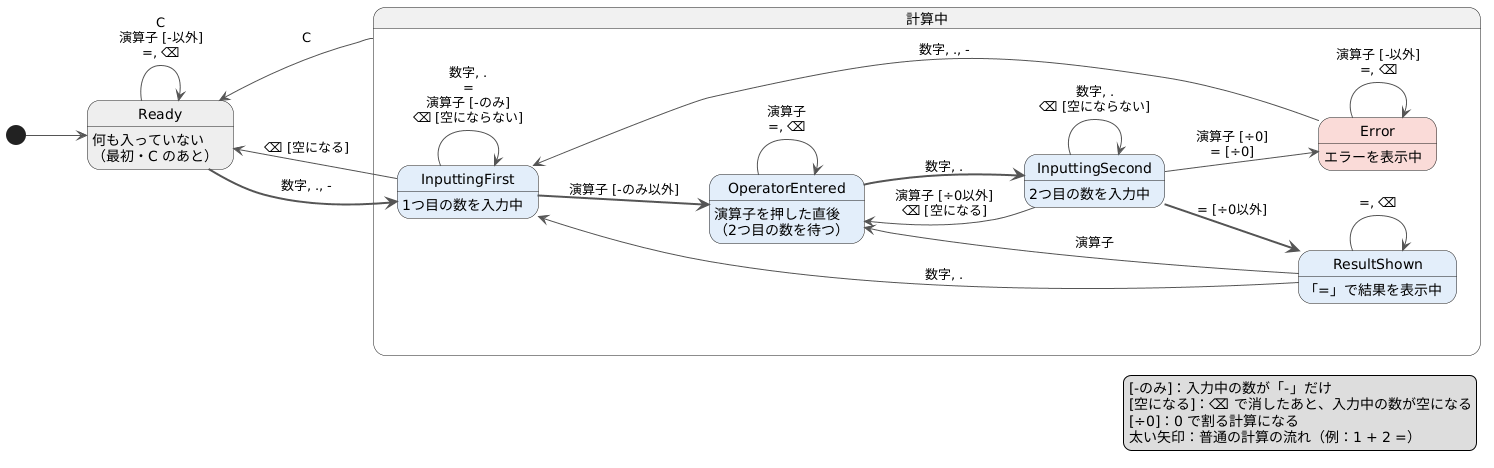
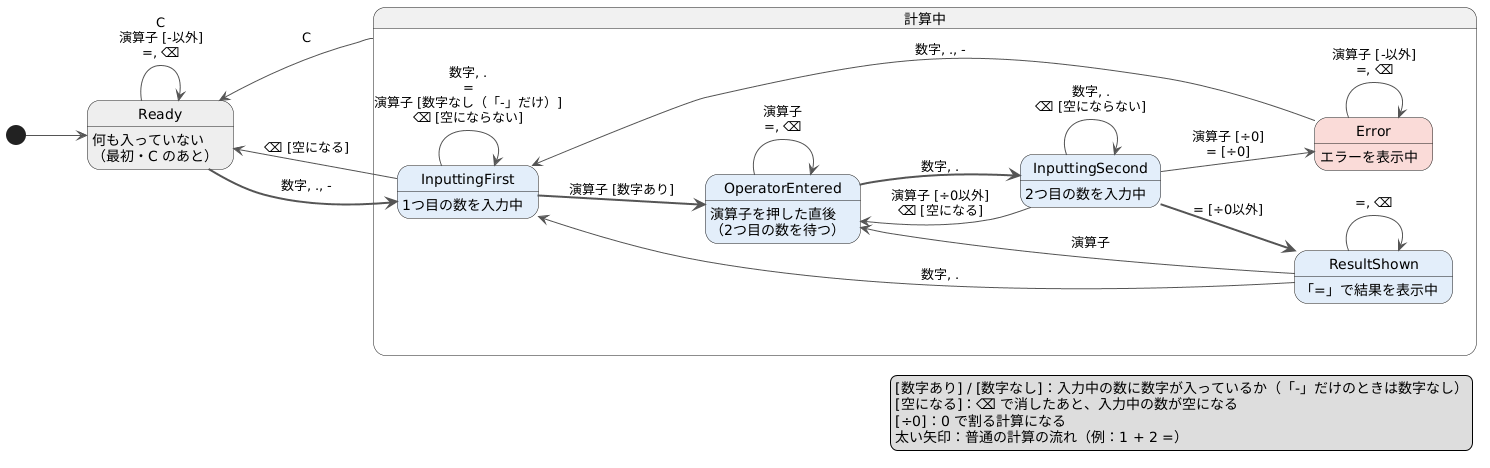
docs: 状態遷移図の条件名を分かりやすく修正
講師のレビューを受けて、InputtingFirst の演算子の条件を [-のみ] / [-のみ以外] から [数字なし（「-」だけ）] / [数字あり] に変更。押した演算子が「-」かどうかと、入力中の数が「-」だけかどうかが紛らわしかったため。凡例と画像も合わせて更新した。

diff --git a/docs/状態遷移図.md b/docs/状態遷移図.md
@@ -35,8 +35,8 @@ Ready <-- 計算中 : C
 Ready --> Ready : C\n演算子 [-以外]\n&#61;, ⌫
 Ready -[bold]-> InputtingFirst : 数字, ., -
 Ready <-- InputtingFirst : ⌫ [空になる]
-InputtingFirst --> InputtingFirst : 数字, .\n&#61;\n演算子 [-のみ]\n⌫ [空にならない]
-InputtingFirst -[bold]-> OperatorEntered : 演算子 [-のみ以外]
+InputtingFirst --> InputtingFirst : 数字, .\n&#61;\n演算子 [数字なし（「-」だけ）]\n⌫ [空にならない]
+InputtingFirst -[bold]-> OperatorEntered : 演算子 [数字あり]
 OperatorEntered --> OperatorEntered : 演算子\n&#61;, ⌫
 OperatorEntered -[bold]-> InputtingSecond : 数字, .
 InputtingSecond --> InputtingSecond : 数字, .\n⌫ [空にならない]
@@ -50,7 +50,7 @@ Error --> InputtingFirst : 数字, ., -
 Error --> Error : 演算子 [-以外]\n&#61;, ⌫
 
 legend right
-  [-のみ]：入力中の数が「-」だけ
+  [数字あり] / [数字なし]：入力中の数に数字が入っているか（「-」だけのときは数字なし）
   [空になる]：⌫ で消したあと、入力中の数が空になる
   [÷0]：0 で割る計算になる
   太い矢印：普通の計算の流れ（例：1 + 2 =）
